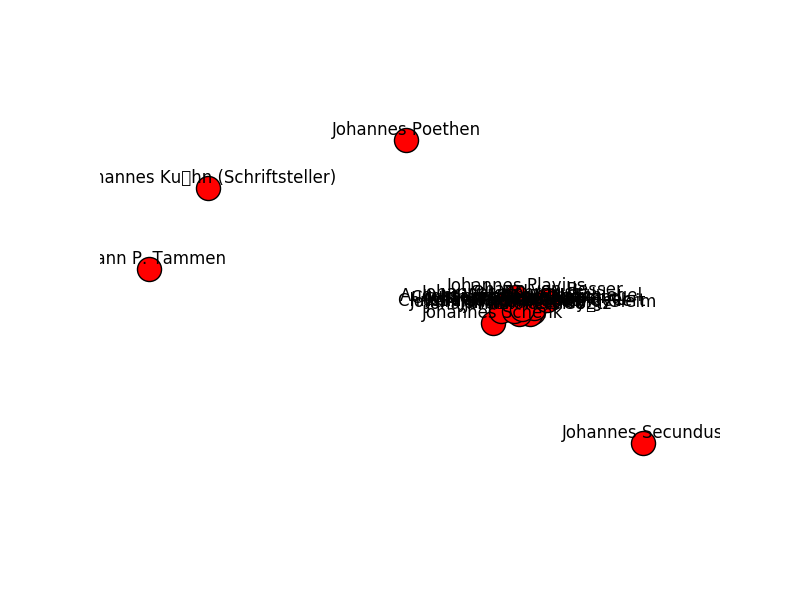
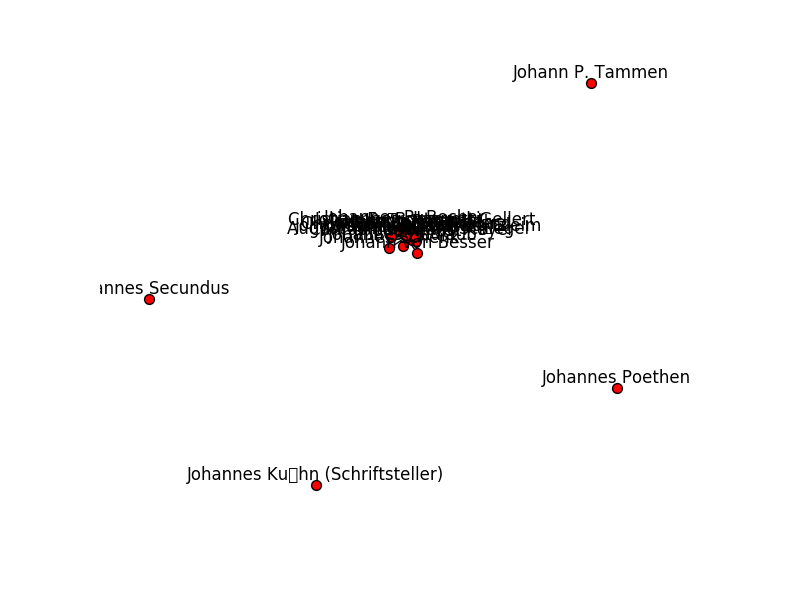
output adjusted

diff --git a/readCSVfromScratch.py b/readCSVfromScratch.py
@@ -1,28 +1,11 @@
 '''
-Alternative way of reading the csv-File produced by the dproWrapper version 0.43
+Alternative way of reading the csv-File produced by the dproWrapper version 0.42
 author: MHuber
 
 '''
 
-#Schleife bauen, die B-per und I-Per zusammenfasst und in einem dict ablegt
-#
-#Vorannahme, dass Personennamen im Text zumindest durch ein Satzzeichen getrennt sind
-#nur eine Kombination aus B-Per und mindeste 1 I-Per wird als Name gespeichert
-##wegen: "Matthäus Megerle und dessen Frau Ursula ->B-BPer (geborene Wagner->BPer)"
 
-#für jeden Text eine Datei in einem Graphendatenformat abspeichern? o. on the fly generieren?
-#Gewichtungen sollten bestenfalls gleich hier vorgenommen werden
 
-'''
-Weitere Vorgehensweise:
-    1. für jedes dict einen Knoten erstellen
-    2. dicts vergleichen, bei Match Kante von dict zu dict erstellen
-    3. Graph zeichnen
-
-'''
-
-#POS-Tag: row[9]
-#NamedEntity: row[14]
 import csv
 from collections import defaultdict
 import itertools
@@ -31,18 +14,7 @@ import os
 import networkx as nx
 import matplotlib.pyplot as plt
 import re
-'''
-with open ('/Users/MHuber/Documents/Dariah/dariah-dkpro-wrapper-0.4.2/Abraham.csv', encoding='utf-8') as csvfile:
-    readCSV = csv.reader(csvfile, delimiter='\t')
-    print (readCSV)
-    for row in readCSV:
-        if row[14]!= "_":
-        #print(row)
-            print(row[7],row[9],row[14] )
-
-            
-'''
-
+from turtledemo.__main__ import font_sizes
 
 def neCount(inputfile):
     necounter=defaultdict(int)
@@ -62,8 +34,6 @@ def neCount(inputfile):
                     necounter[joinedLemma]+=1
                     lemma=[]
                 
-        #print(necounter['Sancta Clara'])
-    #print(necounter['Sancta Clara'])
     return necounter
     #looks like: {Name:Vorkommen,
     #             Name:Vorkommen} e.g. "Sancta Clara": 5
@@ -91,50 +61,23 @@ def createGraph():
     #print(fileList)
     for item in fileList:
         G.add_node(extractBasename(item))
-        #itemList = item.split('/')
-        #itemList = re.search('(.+?)(\.txt\.csv)', itemList[-1])
-        #itemList= itemList[-1].split('.')
-        #for item in itemList:
-            #print (item)
-        #nodeName = itemList[0]
-        #print(nodeName)
-        #nodeList.append(nodeName)
-        #G.add_node(nodeName)
+        
     for a,b in itertools.combinations(fileList,2):
-        #print (a)
-        #astr = re.search("Christoph",a)#depends on directory... not sure how to implement
-        #bstr = re.search("(?=testout\/).*(?=\.txt\.csv)",b)
-        #astr = astr.group(0)
-        #bstr = bstr.group(0)
-        
-        #so ugly
-        #aList = a.split('/')
-        #bList = b.split('/')
-        #aList = aList[-1].split('.')
-        #bList = bList[-1].split('.')
-        #aName = aList[0]
-        #bName = bList[0]
-        #print(aName +'  |  ' + bName)
-        #aName = aList[-1]
-        #bName = bList[-1]
-        
-
-
         weight = compareNECounter(neCount(a), neCount(b))
-
         if weight > 10:
             G.add_edge(extractBasename(a), extractBasename(b), {'weight': weight})
             #create edges a->b (weight)
 
-    
     print ("Number of nodes:", G.number_of_nodes(), "  Number of edges: ", G.number_of_edges())
     return G
     
           
-#neCount("/Users/MHuber/Documents/Dariah/dariah-dkpro-wrapper-0.4.2/Abraham.csv")
-nx.draw_networkx(createGraph(), with_labels=True)
+
+
+nx.draw_circular(createGraph(), with_labels=True, node_size = 50, font_size=6, center=None)
 plt.axis('off')
-plt.savefig("graph.png")
-nx.draw_circular(createGraph(), with_labels=True)
-plt.axis('off')
-plt.savefig("graphcircular.png")
+plt.savefig("graphcircular1.png", dpi=200)
+#nx.draw_spring(createGraph(), with_labels=True, node_size = 50, font_size=6)
+#plt.axis('off')
+#plt.savefig("graphspring.png", dpi=200)
+
